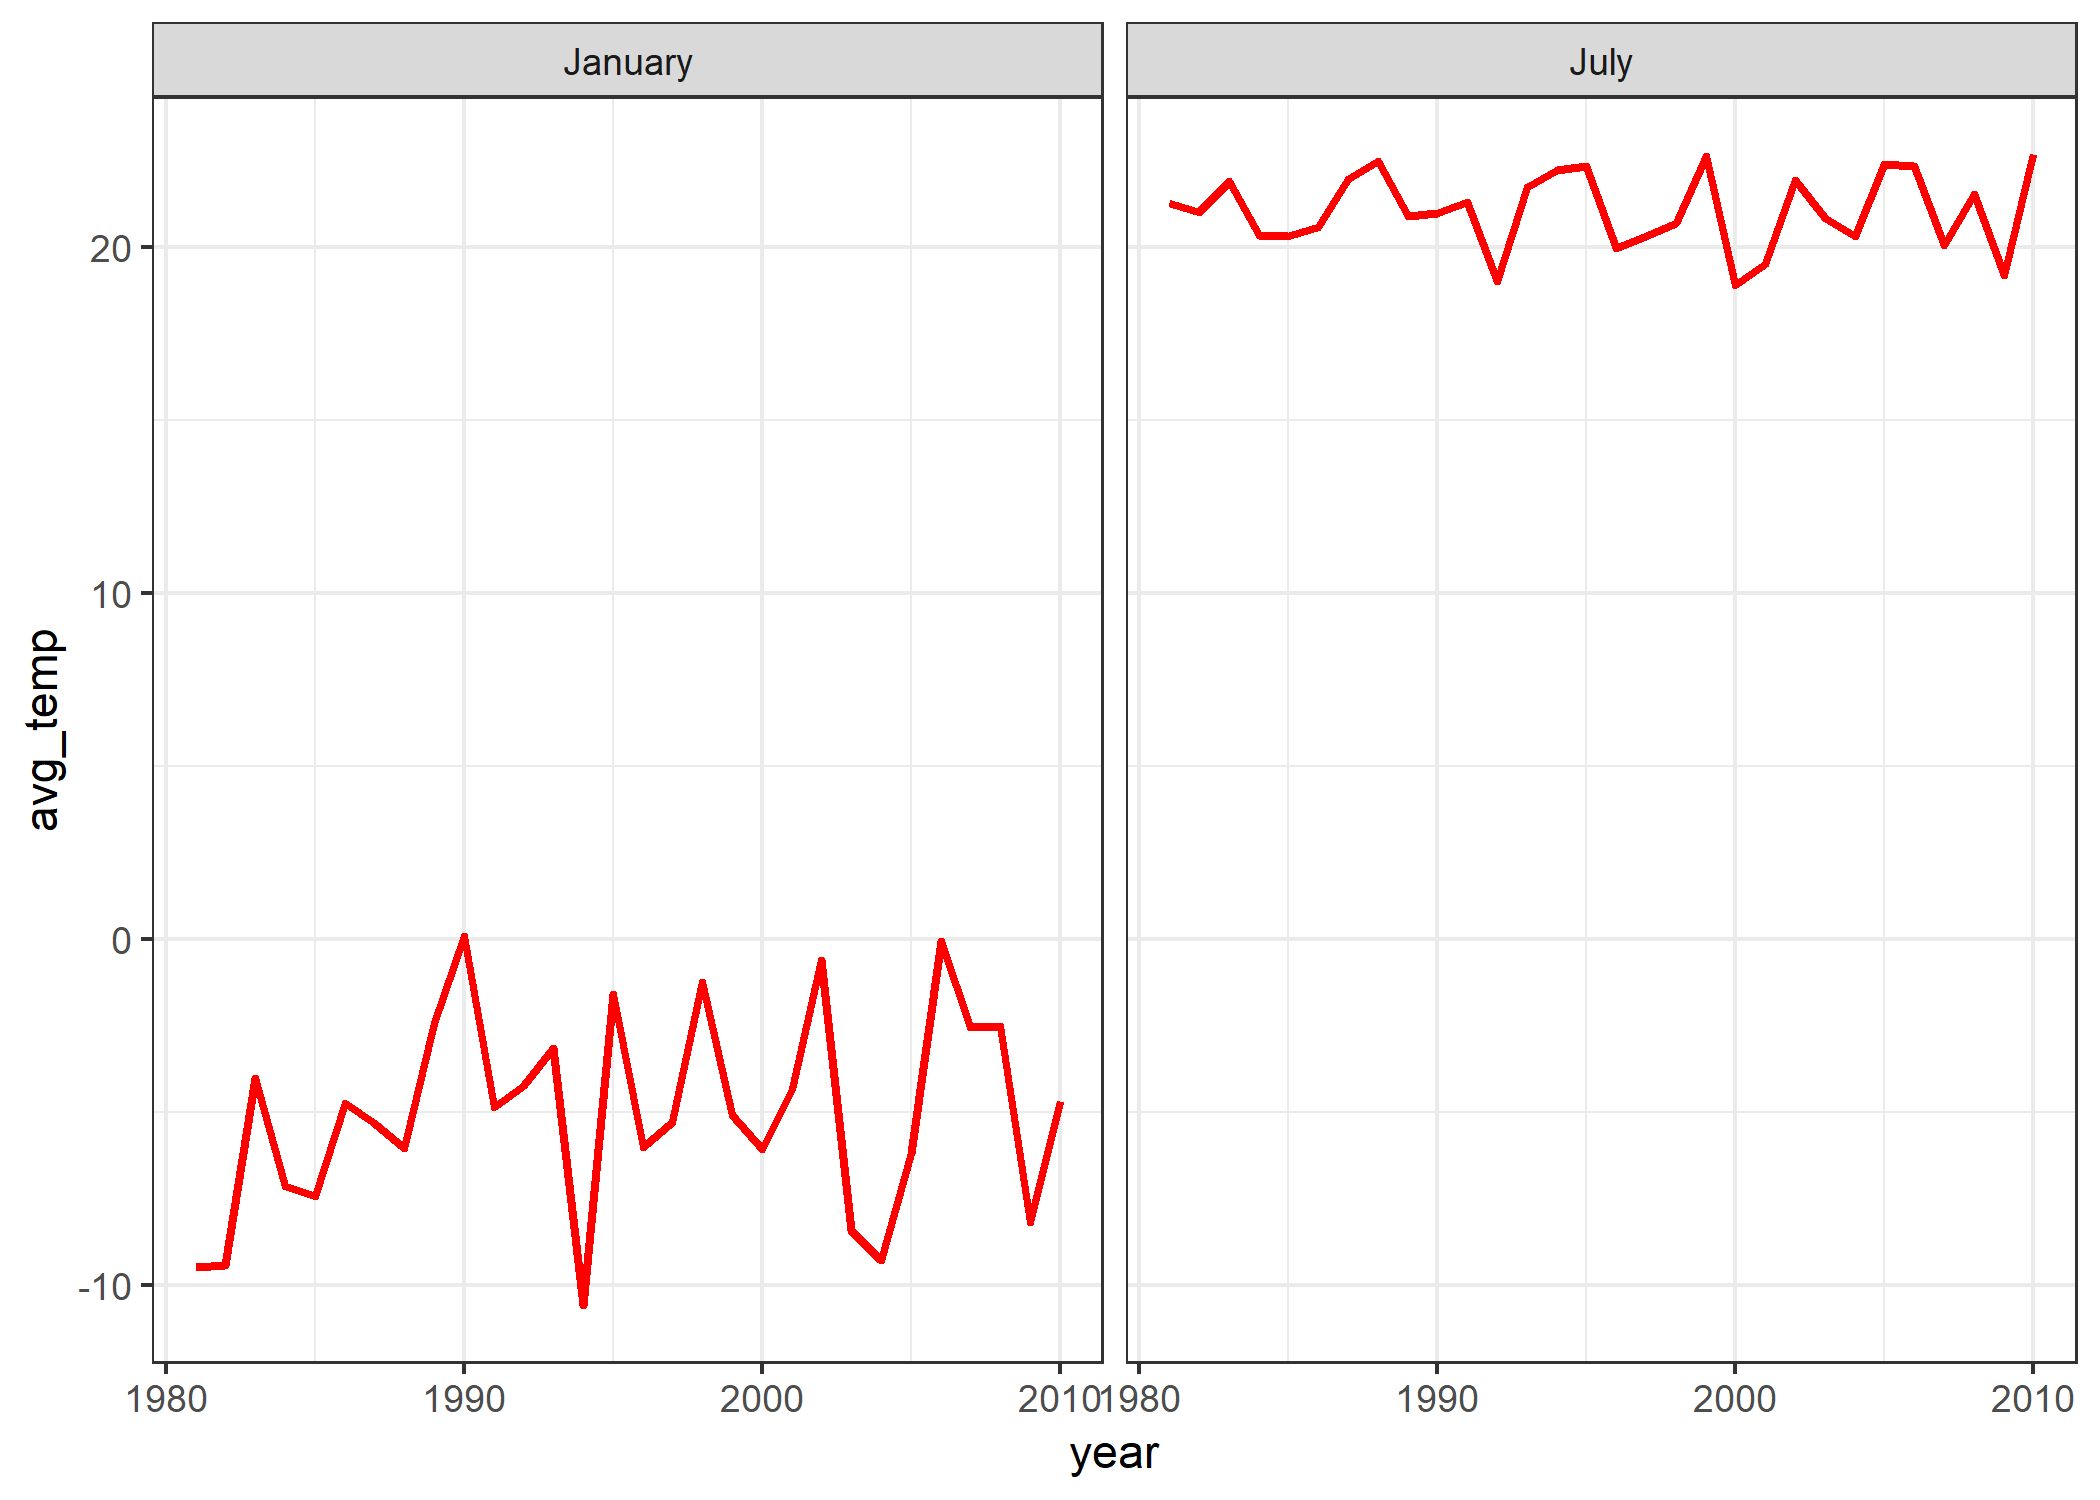
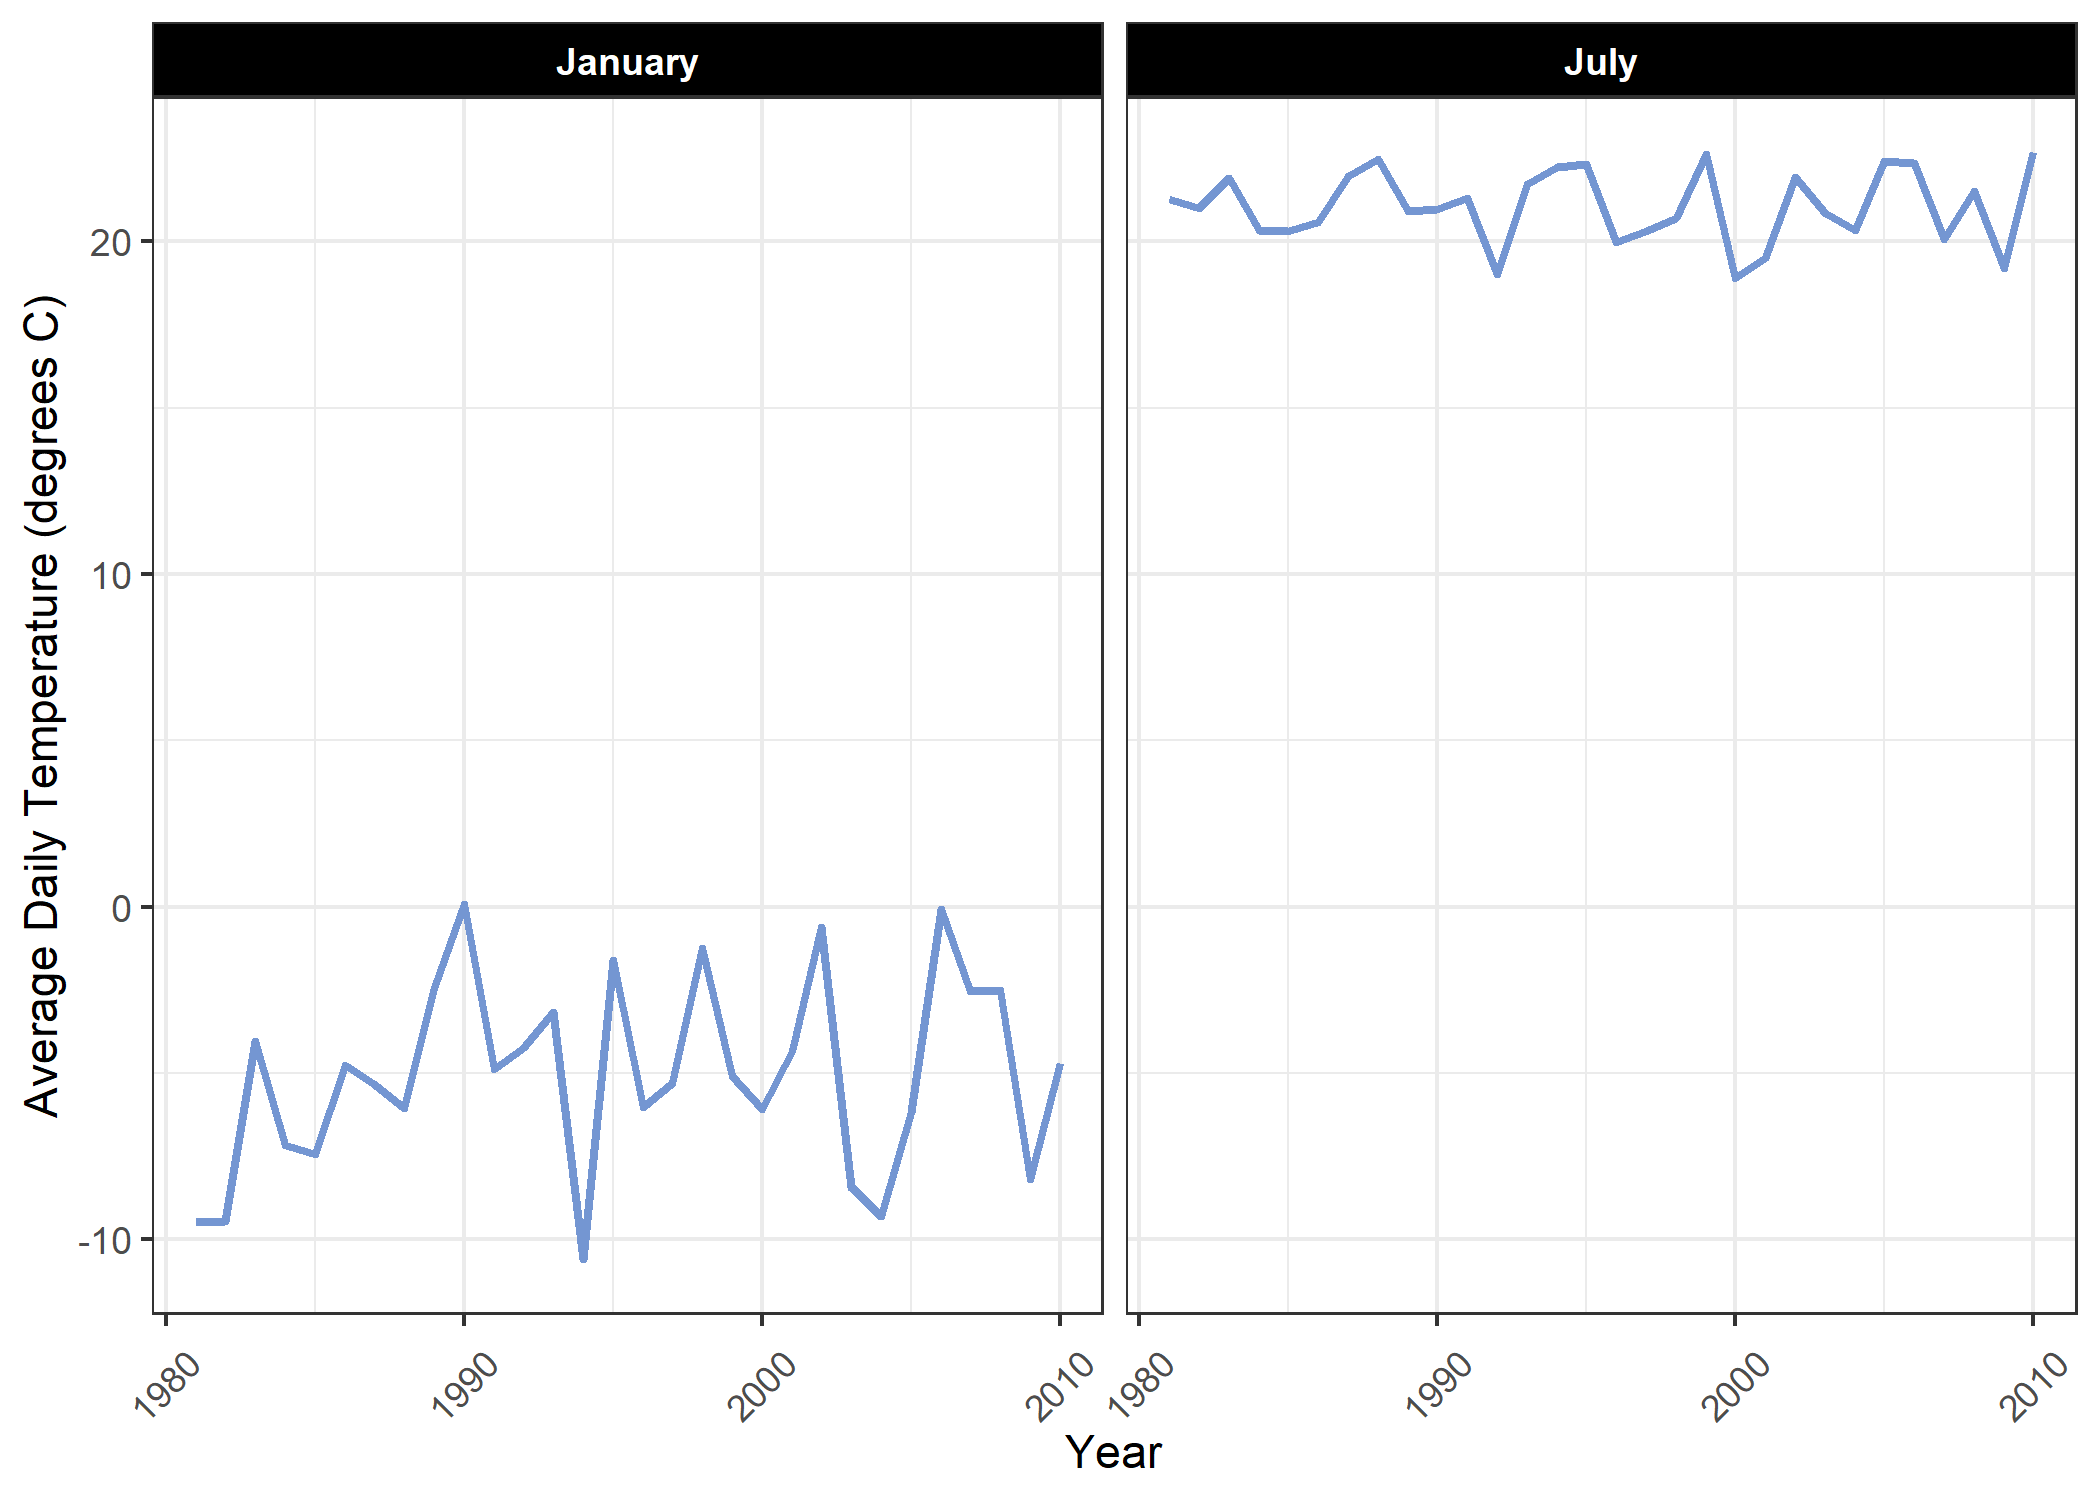
noaa janurary and july plot edits

diff --git a/p8105_hw3_ntw2117.md b/p8105_hw3_ntw2117.md
@@ -274,8 +274,16 @@ avg_daily_temp %>%
   group_by(year, month) %>% 
   summarize(avg_temp = mean(avg_temp, na.rm = TRUE)) %>% 
   ggplot(aes(x = year, y = avg_temp)) + 
-    geom_line(color = "red", size = 1) + 
-  facet_grid(~ month, scales = "free")
+    geom_line(color = "#7496D2", size = 1) + 
+  facet_grid(~ month, 
+             scales = "free") + 
+  labs(x = "Year", 
+       y = "Average Daily Temperature (degrees C)") + 
+  theme(axis.text.x = element_text(angle = 45,
+                                   vjust = 0.4), 
+        strip.background = element_rect(fill = "black"), 
+        strip.text = element_text(color = "white", 
+                                  face = "bold"))
 ```
 
 <img src="p8105_hw3_ntw2117_files/figure-markdown_github/unnamed-chunk-2-1.png" style="display: block; margin: auto;" />
